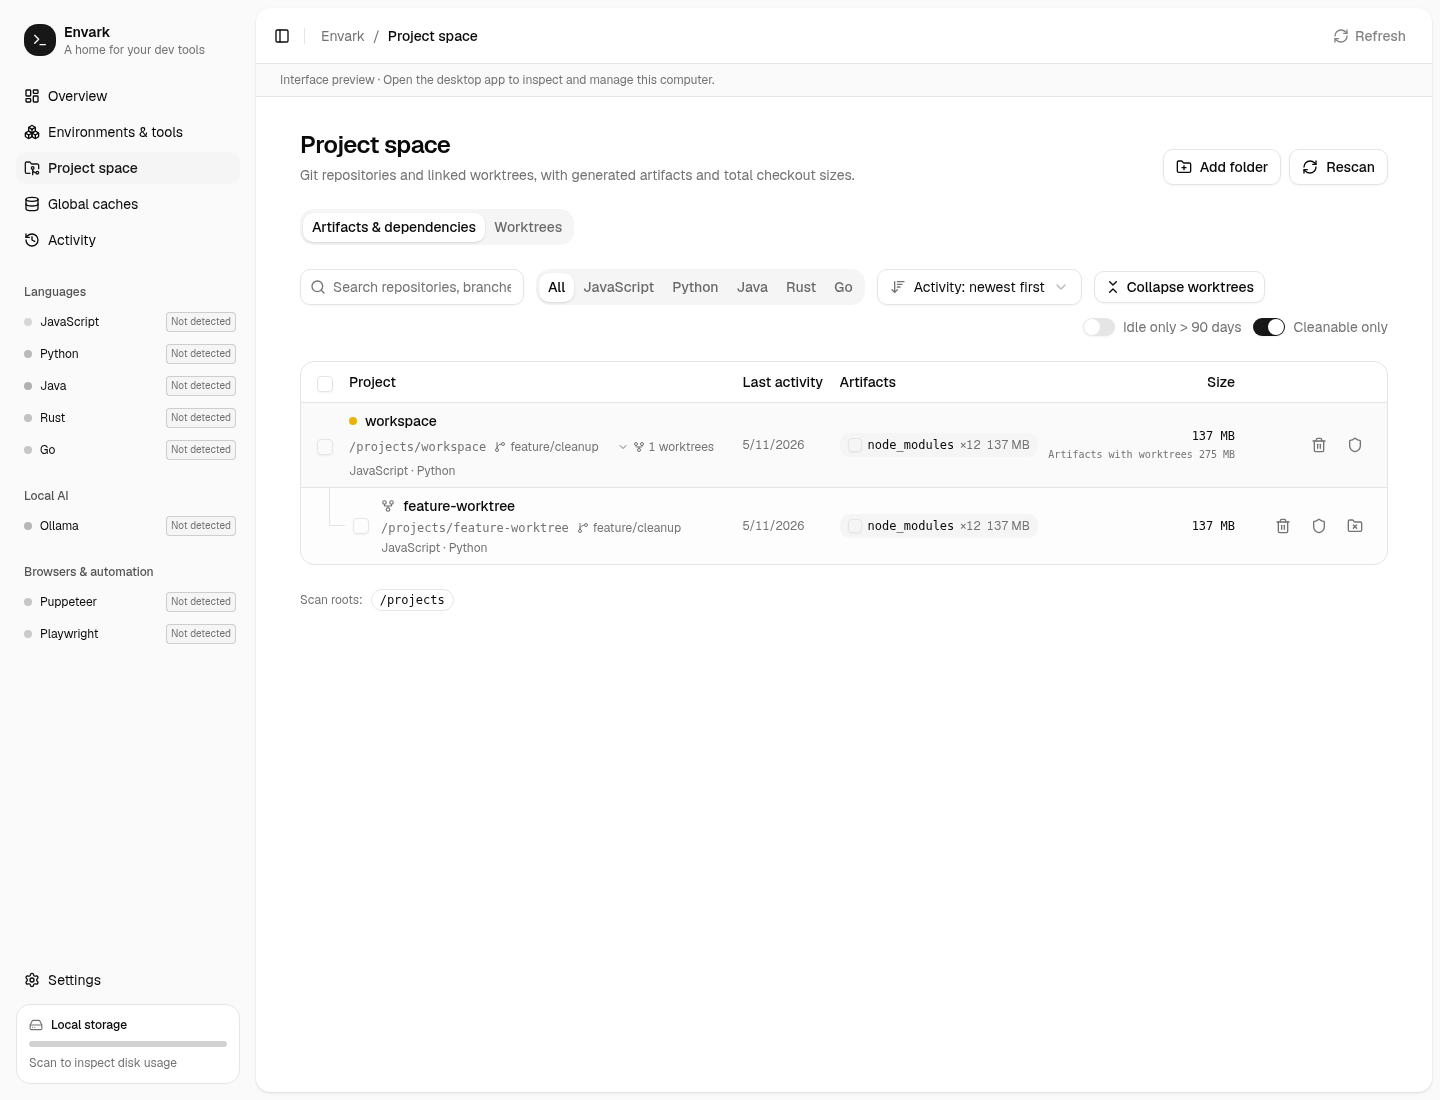
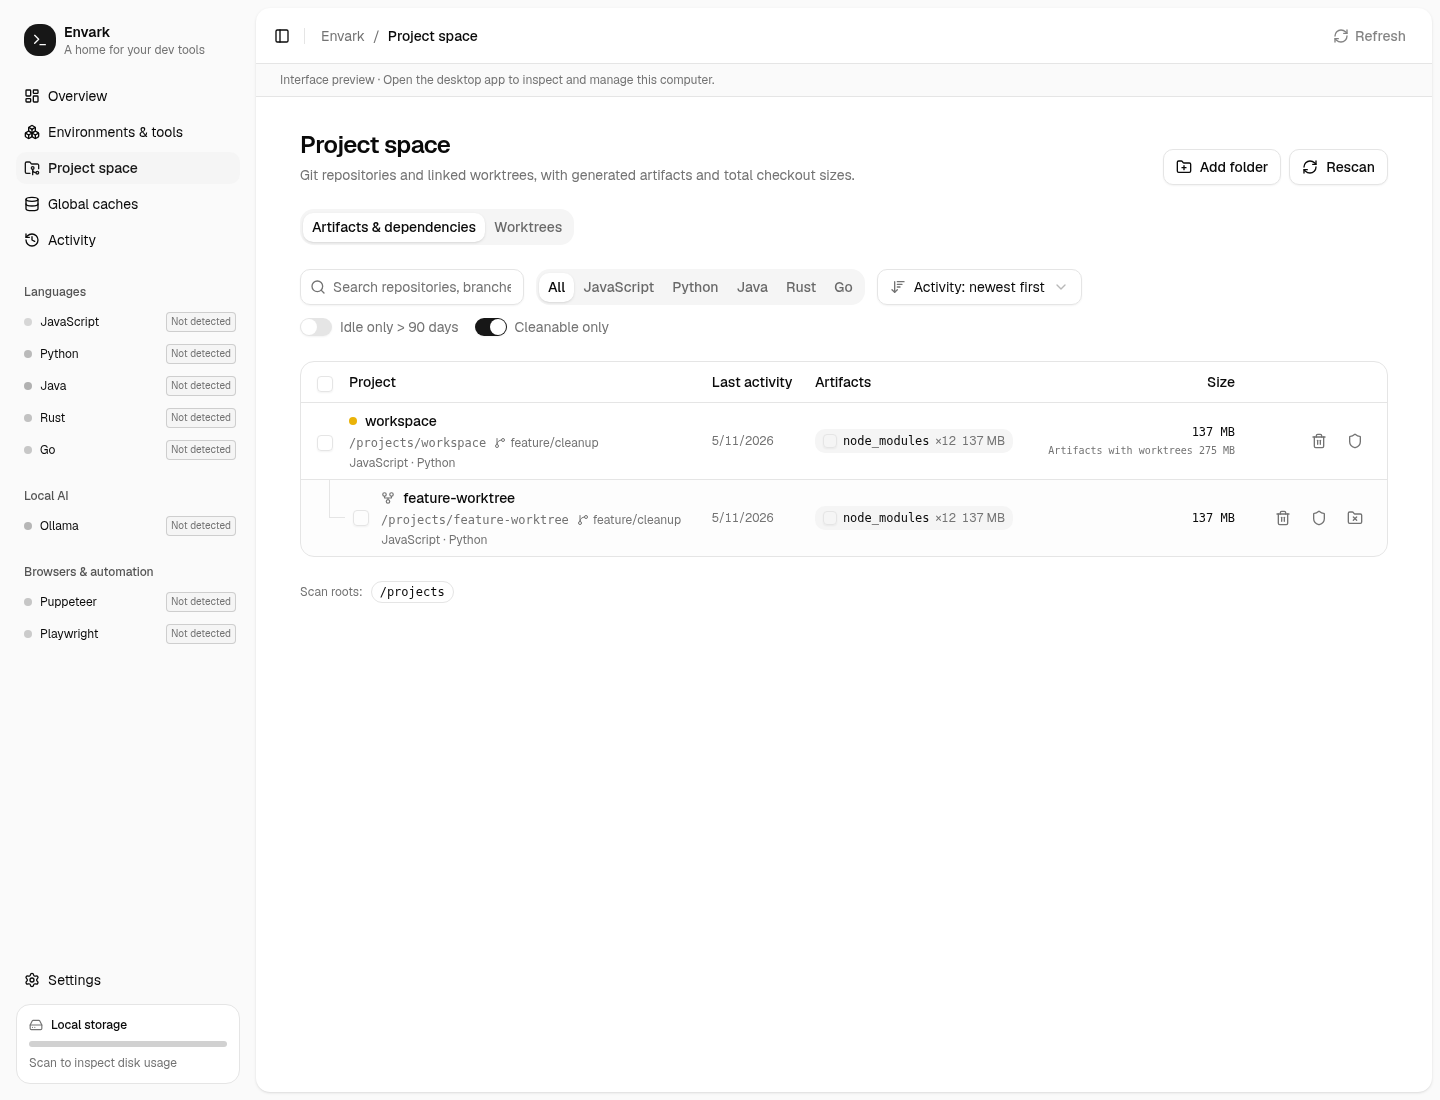
fix(projects): align filters and scope worktree folding

diff --git a/src/views/Projects.tsx b/src/views/Projects.tsx
@@ -142,7 +142,7 @@ export default function Projects() {
             <SelectItem value="size-asc">{t('占用：从小到大', 'Size: smallest first')}</SelectItem>
           </SelectContent>
         </Select>
-        {parents.length > 0 && (
+        {mode === 'worktrees' && parents.length > 0 && (
           <Button
             variant="outline"
             size="sm"
@@ -163,22 +163,24 @@ export default function Projects() {
               : t('展开 worktree', 'Expand worktrees')}
           </Button>
         )}
-        <label className="ml-auto flex items-center gap-2 text-sm text-muted-foreground">
-          <Switch
-            aria-label={t('仅闲置', 'Idle only')}
-            checked={idleOnly}
-            onCheckedChange={setIdleOnly}
-          />
-          {t('仅闲置', 'Idle only')} &gt; {settings.idleDays} {t('天', 'days')}
-        </label>
-        <label className="flex items-center gap-2 text-sm text-muted-foreground">
-          <Switch
-            aria-label={t('仅可清理', 'Cleanable only')}
-            checked={cleanableOnly}
-            onCheckedChange={setCleanableOnly}
-          />
-          {t('仅可清理', 'Cleanable only')}
-        </label>
+        <div className="flex flex-wrap items-center gap-4">
+          <label className="flex items-center gap-2 text-sm text-muted-foreground">
+            <Switch
+              aria-label={t('仅闲置', 'Idle only')}
+              checked={idleOnly}
+              onCheckedChange={setIdleOnly}
+            />
+            {t('仅闲置', 'Idle only')} &gt; {settings.idleDays} {t('天', 'days')}
+          </label>
+          <label className="flex items-center gap-2 text-sm text-muted-foreground">
+            <Switch
+              aria-label={t('仅可清理', 'Cleanable only')}
+              checked={cleanableOnly}
+              onCheckedChange={setCleanableOnly}
+            />
+            {t('仅可清理', 'Cleanable only')}
+          </label>
+        </div>
       </div>
       {groups.length ? (
         <ProjectTable

diff --git a/src/test/projects.test.tsx b/src/test/projects.test.tsx
@@ -154,8 +154,13 @@ function withWorktrees(data: Snapshot) {
     }))
 }
 
-it('selects a repository family, keeps partial state, and retains collapsed selections', async () => {
-  const { prepare } = fixture(withWorktrees)
+it('keeps worktree folding out of artifact mode and preserves its selection across modes', async () => {
+  const { prepare } = fixture((data) => {
+    withWorktrees(data)
+    data.inventory.worktrees.forEach((w) => {
+      w.size = { bytes: 2048, files: 2, skipped: 0, complete: true }
+    })
+  })
   const user = userEvent.setup()
   await screen.findByText('repository')
   await user.click(screen.getByRole('checkbox', { name: 'Select old-branch' }))
@@ -163,8 +168,14 @@ it('selects a repository family, keeps partial state, and retains collapsed sele
     screen.getByRole('checkbox', { name: 'Select repository' }).getAttribute('aria-checked'),
   ).toBe('mixed')
   await user.click(screen.getByRole('checkbox', { name: 'Select repository' }))
+  expect(screen.queryByRole('button', { name: 'Collapse worktrees' })).toBeNull()
+  expect(screen.queryByRole('button', { name: /Toggle worktrees/ })).toBeNull()
+  await user.click(screen.getByRole('tab', { name: 'Worktrees' }))
   await user.click(screen.getByRole('button', { name: 'Collapse worktrees' }))
-  expect(screen.queryByText('old-branch')).toBeNull()
+  expect(screen.queryByRole('checkbox', { name: 'Select old-branch' })).toBeNull()
+  await user.click(screen.getByRole('tab', { name: 'Artifacts & dependencies' }))
+  expect(screen.getByRole('checkbox', { name: 'Select old-branch' })).toBeTruthy()
+  expect(screen.queryByRole('button', { name: 'Expand worktrees' })).toBeNull()
   await user.click(screen.getByRole('button', { name: 'Review cleanup' }))
   expect(prepare).toHaveBeenCalledWith({
     kind: 'cleanProjects',

diff --git a/src/components/ProjectTable.tsx b/src/components/ProjectTable.tsx
@@ -109,7 +109,7 @@ export function ProjectTable({
                 mode === 'worktrees'
                   ? eligibleWorktrees(group).map((w) => w.id)
                   : family.flatMap(eligibleArtifacts).map((a) => a.id)
-              const expanded = !collapsed.has(group.repository.id)
+              const expanded = mode === 'artifacts' || !collapsed.has(group.repository.id)
               return (
                 <Fragment key={group.repository.id}>
                   <WorkspaceRow
@@ -136,7 +136,7 @@ export function ProjectTable({
                         : undefined
                     }
                     disclosure={
-                      group.children.length ? (
+                      mode === 'worktrees' && group.children.length ? (
                         <Button
                           variant="ghost"
                           size="sm"
